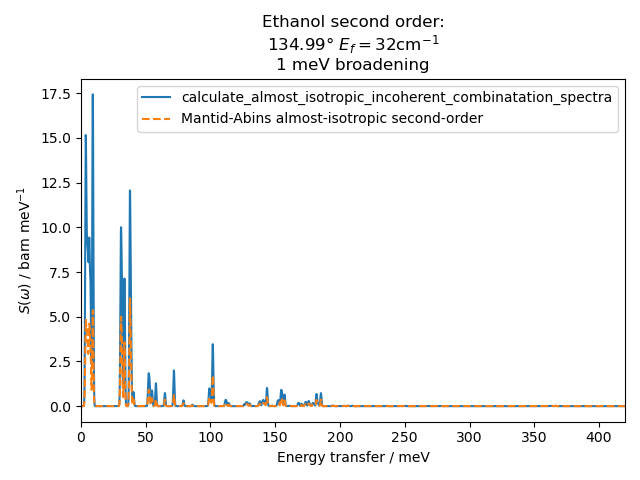
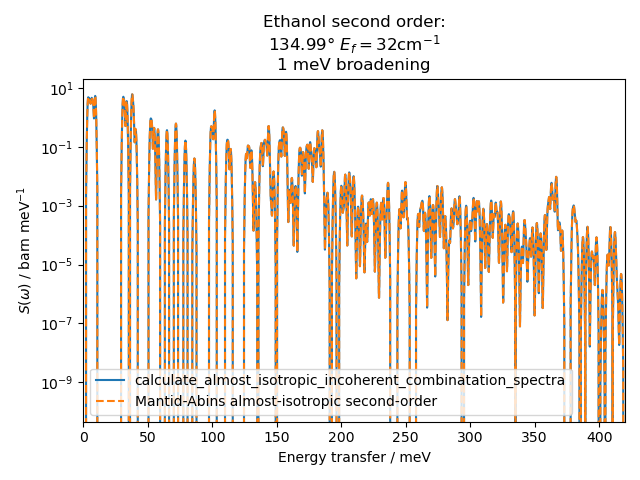
Reproduced Mantid-Abins O2 beautifully - with one fudge factor
The Mantid approximation to treat one q-point at a time has a
significant impact on the results. When reproducing it we get
beautiful agreement... as long as a factor 0.5 is also applied.

Need to investigate that a bit more closely, but it seems a tractable
problem!

Changed region(s): [[0.0625, 0.1562, 1.0, 0.9688], [0.4062, 0.0312, 0.6875, 0.1562], [0.9375, 0.25, 0.9688, 0.2812]]

diff --git a/src/abinslib/almost_isotropic_incoherent.py b/src/abinslib/almost_isotropic_incoherent.py
@@ -228,6 +228,72 @@ def calculate_almost_isotropic_incoherent_combination_spectra(
     return Spectrum1DCollection(x_data=bins, y_data=y_data, metadata=metadata)
 
 
+def mantid_like_combination_spectra(
+    modes: QpointPhononModes,
+    mode_displacements: Displacements,
+    atomic_displacements: Quantity,
+    nominal_q2: Quantity,
+    bins: Quantity,
+    apply_cross_section: bool = True,
+) -> Spectrum1DCollection:
+    """Calculate two-phonon intensities with approximations from Abins-Mantid
+
+    Currently the emphasis is on reproducibility, not efficiency, so things like
+    Debye-Waller factor are calculated more times than necessary.
+
+    - DOS-like almost-isotropic incoherent approximation (i.e. semi-analytic
+      powder-averaging equations with traces and contractions)
+    - Calculate at nominal Q=1, rescale for Q4 relation and apply Debye-Waller
+      _after_ binning
+    - Treat each input q-point independently:
+      - only consider combination modes at each q
+      - weight each of these spectra with the weight of corresponding q
+
+    - DW factor *is* still correctly averaged over q-point contributions
+
+    """
+    from euphonic import QpointPhononModes
+
+    from .displacements import Displacements
+
+    spectra = Spectrum1DCollection(
+        bins, np.empty((0, len(bins))) * ureg("barn") / bins.units
+    )
+
+    for q_index, weight in enumerate(modes.weights):
+        qpt_modes = QpointPhononModes(
+            crystal=modes.crystal,
+            qpts=modes.qpts[np.newaxis, q_index],
+            frequencies=modes.frequencies[np.newaxis, q_index],
+            eigenvectors=modes.eigenvectors[np.newaxis, q_index],
+            weights=np.array([1.0]),
+        )
+        qpt_displacements = Displacements(
+            displacements=mode_displacements.displacements[np.newaxis, q_index],
+            weights=np.array([1.0]),
+            bose_n=mode_displacements.bose_n[np.newaxis, q_index],
+            temperature=mode_displacements.temperature,
+        )
+
+        qpt_spectra = q_scaling_almost_isotropic_incoherent_combination_spectra(
+            modes=qpt_modes,
+            mode_displacements=qpt_displacements,
+            atomic_displacements=atomic_displacements,  # unused outside DW
+            nominal_q2=nominal_q2,
+            bins=bins,
+            apply_cross_section=apply_cross_section,
+        )
+
+        qpt_spectra.y_data = qpt_spectra.y_data * weight
+        qpt_spectra.metadata["qpt"] = str(modes.qpts[q_index])
+
+        spectra = spectra + qpt_spectra
+
+    spectra.group_by("atom_index")  # Combine q-point contributions
+
+    return spectra
+
+
 def q_scaling_almost_isotropic_incoherent_combination_spectra(
     modes: QpointPhononModes,
     mode_displacements: Displacements,

diff --git a/tests/test_almost_isotropic_incoherent.py b/tests/test_almost_isotropic_incoherent.py
@@ -6,6 +6,7 @@ from abinslib.almost_isotropic_incoherent import (
     calculate_almost_isotropic_incoherent_combinations,
     calculate_almost_isotropic_incoherent_fundamentals,
     calculate_almost_isotropic_incoherent_spectra,
+    mantid_like_combination_spectra,
     q_scaling_almost_isotropic_incoherent_combination_spectra,
 )
 from abinslib.displacements import Displacements
@@ -97,5 +98,26 @@ def test_q_scaling_combination_spectra(modes):
     a = b.to_atomic_displacements()
 
     _ = q_scaling_almost_isotropic_incoherent_combination_spectra(
+        modes, b, a, nominal_q2, bins, apply_cross_section=True
+    )
+
+
[email redacted]("modes", ["GaSb"], indirect=True)
+def test_mantid_like_combination_spectra(modes):
+    from abinslib.util import calculate_indirect_q2
+
+    bins = Quantity(np.arange(0, 8000, 1), "cm_1")
+    bin_centres = (bins[1:] + bins[:-1]) * 0.5
+    nominal_q2 = calculate_indirect_q2(
+        bin_centres,
+        angle=(134.98885653282196 * np.pi / 180),
+        final_energy=Quantity(32.0, "cm_1").to("hartree"),
+    )
+
+    temperature = Quantity(100, "kelvin")
+    b = Displacements.from_modes(modes=modes, temperature=temperature)
+    a = b.to_atomic_displacements()
+
+    _ = mantid_like_combination_spectra(
         modes, b, a, nominal_q2, bins, apply_cross_section=True
     )

diff --git a/dev/validation/workflow/scripts/write_second_order.py b/dev/validation/workflow/scripts/write_second_order.py
@@ -3,7 +3,7 @@ import numpy as np
 from snakemake.script import snakemake
 
 from abinslib.almost_isotropic_incoherent import (
-    q_scaling_almost_isotropic_incoherent_combination_spectra,
+    mantid_like_combination_spectra,
 )
 from abinslib.displacements import Displacements
 from abinslib.util import calculate_indirect_q2
@@ -27,9 +27,7 @@ q2 = calculate_indirect_q2(
     final_energy=Quantity(32.0, "cm_1").to("hartree"),
 )
 
-spectra = q_scaling_almost_isotropic_incoherent_combination_spectra(
-    modes, displacements, dw, q2, bins
-)
-spectrum = spectra.sum()
+spectra = mantid_like_combination_spectra(modes, displacements, dw, q2, bins)
+spectrum = spectra.sum() * 0.5  # MAGIC FUDGE FACTOR
 
 spectrum.to_json_file(snakemake.output[0])